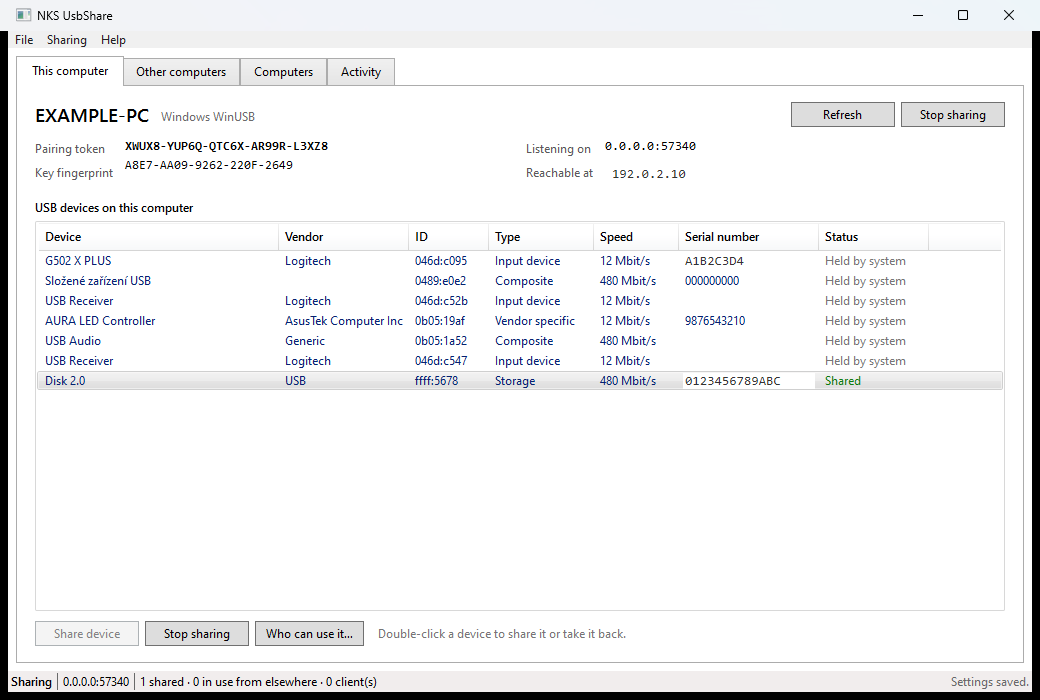
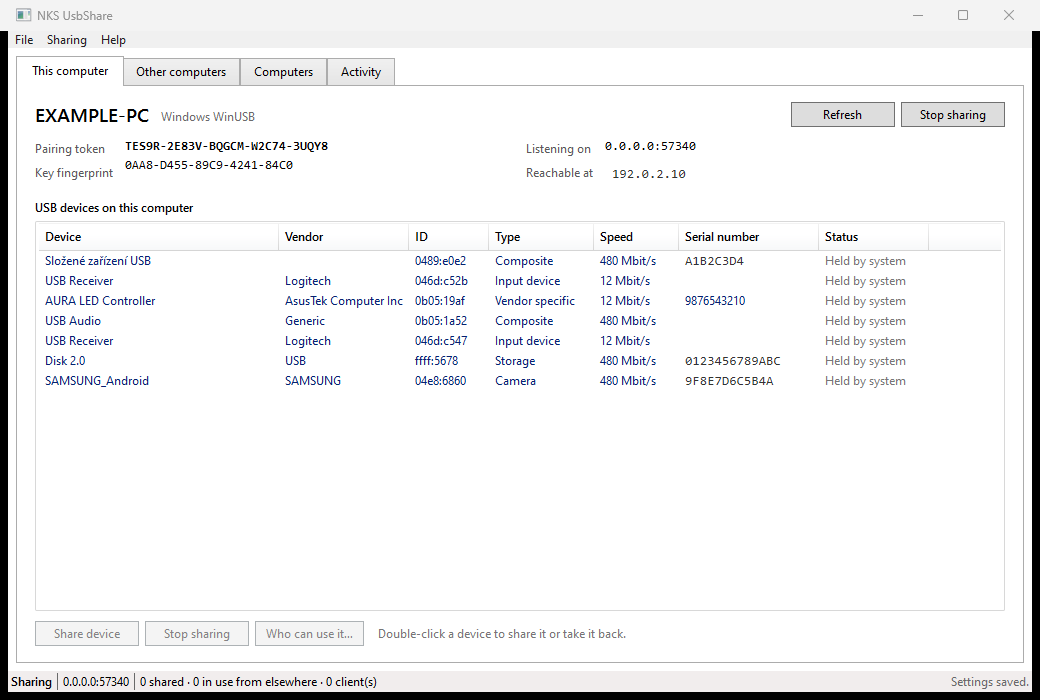
docs: honest dependency story, new screenshots, clearer layout

diff --git a/README.md b/README.md
@@ -1,27 +1,40 @@
 [![CI](https://github.com/nks-hub/nks-usbshare/actions/workflows/ci.yml/badge.svg)](https://github.com/nks-hub/nks-usbshare/actions/workflows/ci.yml)
 [![Release](https://github.com/nks-hub/nks-usbshare/actions/workflows/release.yml/badge.svg)](https://github.com/nks-hub/nks-usbshare/actions/workflows/release.yml)
 [![.NET](https://img.shields.io/badge/.NET-9.0-512BD4)](https://dotnet.microsoft.com/)
-[![Dependencies](https://img.shields.io/badge/dependencies-none-brightgreen)](#no-dependencies)
+[![NuGet packages](https://img.shields.io/badge/NuGet%20packages-0-brightgreen)](#dependencies)
 
 # NKS UsbShare v1.0.0
 
 Share USB devices between computers over an encrypted TCP link — on a LAN, across a VPN, or over
-the internet. The device plugged into one machine becomes usable from another.
+the internet. A flash drive, a phone, a dongle: plug it into one machine, use it from another as
+though it were plugged in there.
 
-Written in C# on .NET 9 with **no third-party dependencies**. Everything it uses ships with the
-operating system or with .NET itself: WinUSB and SetupAPI on Windows, usbfs on Linux, IOKit on
-macOS, WPF, AppKit and GTK for the windows, and the .NET TLS stack for the transport.
+Written in C# on .NET 9. **The solution has no NuGet packages at all** — the wire protocol, the
+descriptor parser, the SCSI and FAT32 readers, the MCP server, the AppKit and GTK bindings and the
+test runner are written here, on top of what the operating system already provides: WinUSB and
+SetupAPI on Windows, usbfs on Linux, IOKit on macOS, and the .NET TLS stack.
+
+One thing cannot be written in user mode at all — the virtual USB controller that makes a remote
+device visible to *every* application on Windows. That is a kernel driver, and it has to be signed
+by someone Windows already trusts. The application **fetches and installs it on its own** the
+first time it is needed; see [Dependencies](#dependencies).
 
 ## Screenshots
 
-| Windows | Linux |
+**The computer a device is plugged into** — everything attached, and what is shared:
+
+![Windows](docs/screenshots/windows.png)
+
+**The computer using it** — a phone attached across the network, listed as a local device:
+
+![A remote device in use](docs/screenshots/windows-remote.png)
+
+| Settings | Linux |
 |---|---|
-| ![Windows](docs/screenshots/windows.png) | ![Linux](docs/screenshots/linux.png) |
+| ![Settings](docs/screenshots/windows-settings.png) | ![Linux](docs/screenshots/linux.png) |
 
 Every window shows the same thing in the same shape: identity and pairing details pinned at the
 top, then a table of devices with a button per row, then the computers allowed in.
-
-![Settings](docs/screenshots/windows-settings.png)
 
 ## What works today
 
@@ -194,11 +207,10 @@ that more user-mode code can close.
 
 **Sharing on Windows** requires the device to be bound to the in-box `winusb.sys` instead of its
 class driver. **The applications do this themselves** — sharing a device Windows is holding asks
-for administrator approval and then hands it over. Nothing has to be installed for that:
-`New-SelfSignedCertificate` provides a signing key, `New-FileCatalog` and
-`Set-AuthenticodeSignature` build and sign the driver catalog, and `pnputil` installs it. No WDK,
-no third-party signing tool, and **Secure Boot stays on** — `winusb.sys` is already signed by
-Microsoft, so only the small package that points at it has to be trusted.
+for administrator approval once and then hands it over. Nothing has to be installed for that: a
+self-signed code-signing certificate, a generated INF and a signed catalog are all produced with
+tooling that ships with Windows, and **Secure Boot stays on**, because `winusb.sys` is already
+signed by Microsoft and only the small package pointing at it has to be trusted.
 
 ```bash
 nksusb share 7          # claims the device from Windows first if it has to
@@ -207,6 +219,18 @@ nksusb giveback         # returns every claimed device to its original driver
 
 In the desktop application the button reads *Claim and share*, and *Sharing → Give devices back*
 undoes it. The same helper is available on its own as `tools/bind-winusb.ps1` for scripted setups.
+
+Two details are worth knowing, because both took real hardware to find:
+
+- A **manufacturer's driver that is WHQL signed outranks this package** no matter what the INF
+  says, because Windows weighs the signature before it weighs how well the hardware id matched. A
+  phone therefore stays on its vendor driver until the choice is forced, which is a documented
+  call rather than a trick.
+- Windows often records the new driver and **leaves the old device stack standing** until the
+  device disappears and comes back. On a composite device such as a phone the old interface nodes
+  keep holding the interfaces and nothing can open it. Restarting the node, restarting the hub and
+  disabling the device are all refused while the machine has a pending reboot, so the claim ends by
+  **cycling the device's hub port** — a replug performed in software, which goes through anyway.
 
 While a device is shared it stops working as its normal self: a flash drive disappears from
 Explorer, a keyboard stops typing. That is what sharing a USB device means on every product that
@@ -226,10 +250,9 @@ Which controller answers depends on the platform:
 - **Windows** has no in-box virtual device. It ships the framework to build one —
   [`UdeCx`](https://learn.microsoft.com/en-us/windows-hardware/drivers/usbcon/writing-a-ude-client-driver),
   the USB Device Emulation class extension — but a KMDF client driver still has to be written and
-  signed. Rather than duplicate that, `nksusb attach` works with the controller from
-  [usbip-win2](https://github.com/vadimgrn/usbip-win2), which is BSD-2-Clause licensed and ships
-  drivers signed by the *Microsoft Windows Hardware Compatibility Publisher*, so they install on
-  stock Windows 11 with Secure Boot left on. Install it and `nksusb attach` finds it on its own.
+  signed. Rather than duplicate that, the controller from
+  [usbip-win2](https://github.com/vadimgrn/usbip-win2) is used, and **the application installs it
+  itself** the first time a device is attached. Nothing has to be downloaded or set up beforehand.
 - **macOS** cannot do this at all today. DriverKit deliberately drives real hardware only —
   `USBDriverKit` matches on the vendor and product id of a device that is physically present, and
   Apple applies the same policy elsewhere, explicitly refusing `AudioDriverKit` for virtual audio
@@ -263,12 +286,34 @@ A driver is only unavoidable for *arbitrary* devices. Storage, printers and scan
 network protocol both operating systems already speak — iSCSI, IPP, and eSCL — so those three
 classes could be carried with no kernel component anywhere.
 
-## No dependencies
+## Dependencies
 
-There is no NuGet package anywhere in the solution, and none in the test project either. The wire
-protocol, the JSON-RPC of the MCP server, the descriptor parser, the SCSI layer, the FAT32 reader,
-the AppKit and GTK bindings and the test runner are all written here. The only external component
-in the whole project is the optional virtual controller on Windows, which has to be a driver.
+**In the build: none.** There is no NuGet package anywhere in the solution, and none in the test
+project either. The wire protocol, the JSON-RPC of the MCP server, the descriptor parser, the SCSI
+layer, the FAT32 reader, the AppKit and GTK bindings and the test runner are all written here.
+
+**At runtime on Windows: one driver, installed for you.** Handing a remote device to the whole
+operating system needs a virtual USB controller, and only kernel-mode code can provide one. The
+controller comes from [usbip-win2](https://github.com/vadimgrn/usbip-win2) (BSD-2-Clause), whose
+drivers carry a *Microsoft Windows Hardware Compatibility Publisher* signature and therefore
+install on stock Windows with Secure Boot left on.
+
+Nobody has to go and find it. The first time a device is attached, the application:
+
+1. asks the controller's own tool whether it is there and working — the file being on disk is not
+   the same thing, because an uninstall can take the driver and leave the files;
+2. downloads the pinned release (**0.9.7.8**) if it is not;
+3. **checks it against a pinned SHA-256** and refuses to run a file that does not match;
+4. installs it silently, and
+5. restarts any USB controllers Windows parked while installing, so nothing on the machine — a
+   keyboard, a mouse — is left dead waiting for a reboot.
+
+Windows asks for administrator consent once, for the driver installation. That prompt is the only
+part that cannot be taken off the user, and there is no way around it for any product that
+installs a driver.
+
+Linux needs none of this: `vhci_hcd` is already in the kernel and is driven straight through
+sysfs. macOS cannot host a virtual USB device at all, with or without a third-party driver.
 
 ## Build
 
@@ -291,7 +336,13 @@ round trip over a real socket. Tests that need hardware skip themselves when the
 
 ```
 NksUsbShare.sln
-├── src/NksUsbShare.Core/      protocol, security, USB backends, host and client engines
+├── src/NksUsbShare.Core/
+│   ├── Protocol/              the wire format: framing, messages, errors
+│   ├── Security/              TLS, node identity, pairing tokens
+│   ├── Host/                  the side a device is plugged into
+│   ├── Client/                the side using it, incl. the controller setup
+│   ├── Usb/Windows|Linux|Mac/ one backend per platform
+│   └── Storage/               SCSI and FAT32, for reading a disk without a driver
 ├── src/NksUsbShare.Cli/       cross-platform command line
 ├── src/NksUsbShare.Desktop/   WPF application for Windows
 ├── src/NksUsbShare.Gtk/       GTK application for Linux
@@ -301,6 +352,11 @@ NksUsbShare.sln
 ├── tools/bind-winusb.ps1      hands a Windows device to WinUSB and back again
 └── .github/workflows/         CI + Release
 ```
+
+The Windows claim currently runs through `tools/bind-winusb.ps1`, driven from an elevated child
+process. A native replacement is in `Usb/Windows/` — the device tree, the forced driver install
+and the hub port cycle are already native and in use; building the driver catalog without the
+script is not finished, and the file says so plainly rather than pretending otherwise.
 
 ## Contributing
 
